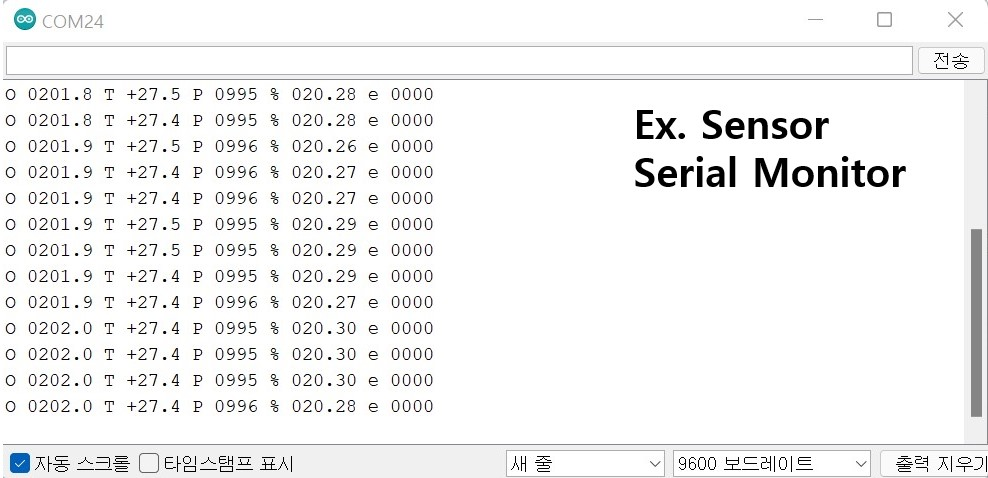
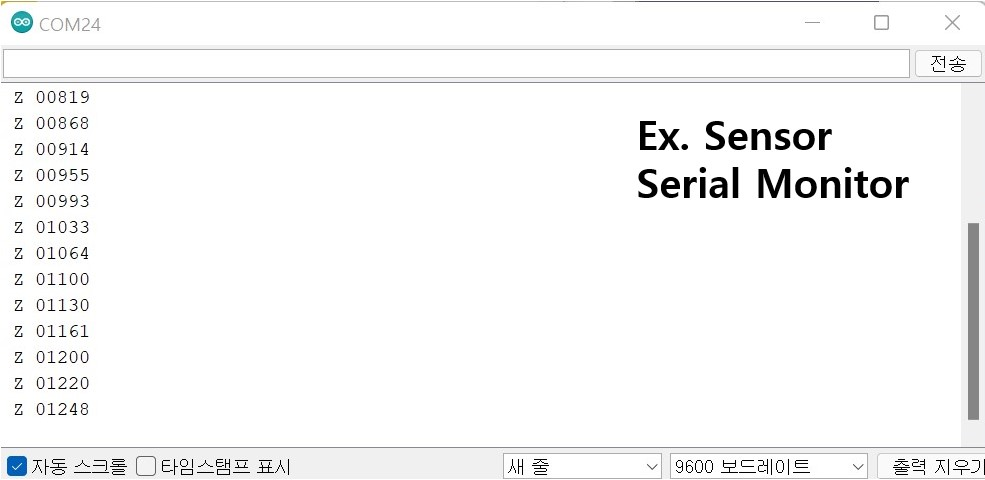
GitBook: [#227] No subject

diff --git a/product-document/gss/cozir-lp2.md b/product-document/gss/cozir-lp2.md
@@ -14,17 +14,17 @@ description: CozIR-LP2를 선택해 주셔서 감사합니다. 제품 활용 방
 
 #### 2)제품 특징
 
-| 항목       | 내용     |
-| -------- | ------ |
-| 측정 범위 | (0-2000ppm),(0-5000ppm),(0-10,000ppm) |
-| 센서 내부 | Solid-State, 가열된 필라멘트 없음, 움직이는 부품 없음 |
-| 통신 방식 | UART 또는 I2C |
-| 전원 전압 | 3.25-5.5V |
-| 센서 치수 및 무게 | 31mm x 19.5mm x 8.7mm, 2.5g |
-| 센서 내구성 | 진동 및 충격에 강하고 비가열성 |
-| 센서 교정 | 자동 교정 내장 |
-| 센서 수명 | 15년 |
-| 센서 활용 | IAQ(실내공기질), HVAC(공기조화기술), BMS(건물 관리 시스템), 계측, 농업, 자동차, 항공우주 |
+| 항목         | 내용                                                          |
+| ---------- | ----------------------------------------------------------- |
+| 측정 범위      | (0-2000ppm),(0-5000ppm),(0-10,000ppm)                       |
+| 센서 내부      | Solid-State, 가열된 필라멘트 없음, 움직이는 부품 없음                        |
+| 통신 방식      | UART 또는 I2C                                                 |
+| 전원 전압      | 3.25-5.5V                                                   |
+| 센서 치수 및 무게 | 31mm x 19.5mm x 8.7mm, 2.5g                                 |
+| 센서 내구성     | 진동 및 충격에 강하고 비가열성                                           |
+| 센서 교정      | 자동 교정 내장                                                    |
+| 센서 수명      | 15년                                                         |
+| 센서 활용      | IAQ(실내공기질), HVAC(공기조화기술), BMS(건물 관리 시스템), 계측, 농업, 자동차, 항공우주 |
 
 #### 3)Documents
 
@@ -58,7 +58,6 @@ description: CozIR-LP2를 선택해 주셔서 감사합니다. 제품 활용 방
 5. 예제 Code를 넣은 후 컴파일 및 시리얼 모니터를 확인합니다.
 
 (Warning : 대부분의 Arduino 보드와 달리 Arduino Due 보드는 3.3V에서 실행, I/O핀이 견딜 수 있는 최대 전압은 3.3V이고 이보다 높은 전압을 적용하면 보드가 손상될 수 있음)
-
 
 1. 위 그림과 같이 Arduino Due와 PCB를 연결합니다.
 2. PCB와 CozIR-LP2 CO₂ Sensor를 연결합니다.(단, Sensor의 Vcc, GND, Rx, Tx는 확인하고 부착)
@@ -123,7 +122,7 @@ void loop(){
 }
 ```
 
-![](<../../.gitbook/assets/CozIR serial monitor ex.jpg>)
+![](<../../.gitbook/assets/due ex.jpg>)
 
 Z:디지털 필터링 후 CO₂ 농도
 

diff --git a/product-document/luminox-o2/luminox-lox-o-s.md b/product-document/luminox-o2/luminox-lox-o-s.md
@@ -2,7 +2,7 @@
 description: LuminOx(LOX-02-S)를 선택해 주셔서 감사합니다. 제품 활용 방법에 도움이 되는 모든 문서를 제공합니다.
 ---
 
-# LuminOx(LOX-02-S)
+# LuminOx(LOX-O₂-S)
 
 ![LuminOx(LOX-02-S)](../../.gitbook/assets/lox-o2-s250x250.png)
 
@@ -93,7 +93,7 @@ void loop() {
 }
 ```
 
-![](<../../.gitbook/assets/uno serial monitor (1).jpg>)
+![](<../../.gitbook/assets/uno serial monitor (1) (1).jpg>)
 
 * Arduino Due
 
